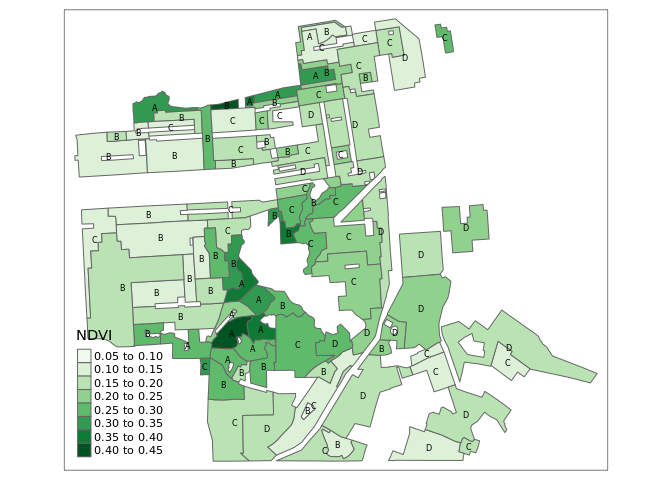
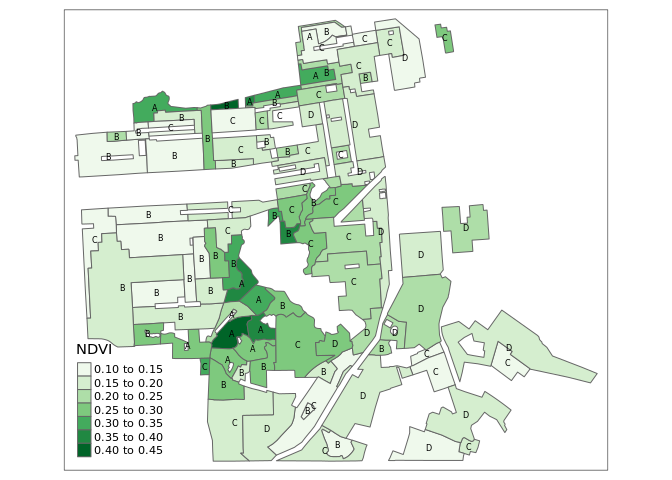
change the location, fixing but and other issue

diff --git a/assignment/spatial-assignment.md b/assignment/spatial-assignment.md
@@ -172,7 +172,7 @@ tm_shape(sf)+tm_polygons("holc_grade")
 
 ``` r
 ## STAC Search over 400 million assets.
-box <- c(xmin=-122.51020, ymin=37.65801, xmax=-122.30000, ymax=37.85668) 
+box <- c(xmin=-122.51, ymin=37.70, xmax=-122.35, ymax=37.82) 
 start_date <- "2022-06-01"
 end_date <- "2022-08-01"
 items <- 
@@ -224,13 +224,13 @@ ndvi
 
     ## stars object with 3 dimensions and 1 attribute
     ## attribute(s):
-    ##             Min.    1st Qu.      Median        Mean   3rd Qu.      Max. NA's
-    ## NDVI  -0.8625167 -0.2422783 -0.07264091 0.004162548 0.1849002 0.9294161   42
+    ##             Min.    1st Qu.     Median       Mean   3rd Qu.     Max. NA's
+    ## NDVI  -0.8775178 -0.1457742 0.07175477 0.09190989 0.2411625 0.932893   34
     ## dimension(s):
-    ##      from   to offset      delta  refsys point                  values x/y
-    ## x       1 1000 -122.5  0.0002102  WGS 84    NA                    NULL [x]
-    ## y       1 1000  37.86 -0.0001987  WGS 84    NA                    NULL [y]
-    ## time    1    1     NA         NA POSIXct FALSE [2022-06-01,2022-09-01)
+    ##      from   to offset    delta  refsys point                  values x/y
+    ## x       1 1000 -122.5  0.00016  WGS 84    NA                    NULL [x]
+    ## y       1 1000  37.82 -0.00012  WGS 84    NA                    NULL [y]
+    ## time    1    1     NA       NA POSIXct FALSE [2022-06-01,2022-09-01)
 
 ``` r
 ave_ndvi
@@ -241,14 +241,14 @@ ave_ndvi
     ##    <int> <chr>      <dbl>
     ##  1     1 2022-06-01 0.309
     ##  2     2 2022-06-01 0.410
-    ##  3     3 2022-06-01 0.385
-    ##  4     4 2022-06-01 0.252
-    ##  5     5 2022-06-01 0.298
-    ##  6     6 2022-06-01 0.377
-    ##  7     7 2022-06-01 0.303
-    ##  8     8 2022-06-01 0.236
+    ##  3     3 2022-06-01 0.387
+    ##  4     4 2022-06-01 0.253
+    ##  5     5 2022-06-01 0.299
+    ##  6     6 2022-06-01 0.389
+    ##  7     7 2022-06-01 0.302
+    ##  8     8 2022-06-01 0.239
     ##  9     9 2022-06-01 0.309
-    ## 10    10 2022-06-01 0.282
+    ## 10    10 2022-06-01 0.284
     ## # ℹ 87 more rows
 
 > “As you explore the materials Mapping Inequality, you will quickly
@@ -275,26 +275,18 @@ from satellite images.
 
 ``` r
 ndvi2 <- ndvi |>st_as_stars()
-ndvi2[ndvi2 > 1] <- NA
-ndvi2[ndvi2 < -1] <- NA
 ndvi2
 ```
 
     ## stars object with 3 dimensions and 1 attribute
     ## attribute(s):
-    ##             Min.    1st Qu.      Median        Mean   3rd Qu.      Max. NA's
-    ## NDVI  -0.8625167 -0.2422783 -0.07264091 0.004162548 0.1849002 0.9294161   42
+    ##             Min.    1st Qu.     Median       Mean   3rd Qu.     Max. NA's
+    ## NDVI  -0.8775178 -0.1457742 0.07175477 0.09190989 0.2411625 0.932893   34
     ## dimension(s):
-    ##      from   to offset      delta  refsys point                  values x/y
-    ## x       1 1000 -122.5  0.0002102  WGS 84    NA                    NULL [x]
-    ## y       1 1000  37.86 -0.0001987  WGS 84    NA                    NULL [y]
-    ## time    1    1     NA         NA POSIXct FALSE [2022-06-01,2022-09-01)
-
-``` r
-tmap_mode("plot")
-```
-
-    ## tmap mode set to plotting
+    ##      from   to offset    delta  refsys point                  values x/y
+    ## x       1 1000 -122.5  0.00016  WGS 84    NA                    NULL [x]
+    ## y       1 1000  37.82 -0.00012  WGS 84    NA                    NULL [y]
+    ## time    1    1     NA       NA POSIXct FALSE [2022-06-01,2022-09-01)
 
 # Exercise 1
 
@@ -324,14 +316,14 @@ ave_ndvi |> as_tibble()
     ##    <int> <chr>      <dbl>
     ##  1     1 2022-06-01 0.309
     ##  2     2 2022-06-01 0.410
-    ##  3     3 2022-06-01 0.385
-    ##  4     4 2022-06-01 0.252
-    ##  5     5 2022-06-01 0.298
-    ##  6     6 2022-06-01 0.377
-    ##  7     7 2022-06-01 0.303
-    ##  8     8 2022-06-01 0.236
+    ##  3     3 2022-06-01 0.387
+    ##  4     4 2022-06-01 0.253
+    ##  5     5 2022-06-01 0.299
+    ##  6     6 2022-06-01 0.389
+    ##  7     7 2022-06-01 0.302
+    ##  8     8 2022-06-01 0.239
     ##  9     9 2022-06-01 0.309
-    ## 10    10 2022-06-01 0.282
+    ## 10    10 2022-06-01 0.284
     ## # ℹ 87 more rows
 
 ``` r
@@ -361,8 +353,6 @@ ndvi_poly <- left_join(sf2 , ave_ndvi)
     ## Joining with `by = join_by(FID)`
 
 ``` r
-ndvi_poly <- filter(ndvi_poly, NDVI > -1)
-ndvi_poly <- filter(ndvi_poly, NDVI < 1)
 ndvi_poly
 ```
 
@@ -371,14 +361,14 @@ ndvi_poly
     ##    <int> <chr> <chr>   <chr>                      <MULTIPOLYGON [°]> <chr> <dbl>
     ##  1     1 <NA>  A1      A          (((-122.4755 37.78687, -122.4755 … 2022… 0.309
     ##  2     2 <NA>  A10     A          (((-122.4609 37.73566, -122.461 3… 2022… 0.410
-    ##  3     3 <NA>  A11     A          (((-122.4562 37.74046, -122.4566 … 2022… 0.385
-    ##  4     4 <NA>  A12     A          (((-122.4715 37.73326, -122.4665 … 2022… 0.252
-    ##  5     5 <NA>  A13     A          (((-122.461 37.73572, -122.4609 3… 2022… 0.298
-    ##  6     6 <NA>  A2      A          (((-122.4593 37.78795, -122.4598 … 2022… 0.377
-    ##  7     7 <NA>  A3      A          (((-122.4472 37.78954, -122.4485 … 2022… 0.303
-    ##  8     8 <NA>  A4      A          (((-122.446 37.80388, -122.4458 3… 2022… 0.236
+    ##  3     3 <NA>  A11     A          (((-122.4562 37.74046, -122.4566 … 2022… 0.387
+    ##  4     4 <NA>  A12     A          (((-122.4715 37.73326, -122.4665 … 2022… 0.253
+    ##  5     5 <NA>  A13     A          (((-122.461 37.73572, -122.4609 3… 2022… 0.299
+    ##  6     6 <NA>  A2      A          (((-122.4593 37.78795, -122.4598 … 2022… 0.389
+    ##  7     7 <NA>  A3      A          (((-122.4472 37.78954, -122.4485 … 2022… 0.302
+    ##  8     8 <NA>  A4      A          (((-122.446 37.80388, -122.4458 3… 2022… 0.239
     ##  9     9 <NA>  A5      A          (((-122.4463 37.79187, -122.447 3… 2022… 0.309
-    ## 10    10 <NA>  A6      A          (((-122.4731 37.7346, -122.4724 3… 2022… 0.282
+    ## 10    10 <NA>  A6      A          (((-122.4731 37.7346, -122.4724 3… 2022… 0.284
     ## # ℹ 87 more rows
 
 ``` r
@@ -404,10 +394,10 @@ ndvi_poly |> as_tibble() |>
     ## # A tibble: 4 × 2
     ##   holc_grade mean_NDVI
     ##   <chr>          <dbl>
-    ## 1 A              0.314
-    ## 2 B              0.209
-    ## 3 C              0.192
-    ## 4 D              0.191
+    ## 1 A              0.316
+    ## 2 B              0.210
+    ## 3 C              0.193
+    ## 4 D              0.192
 
 # Exercise 3:
 
